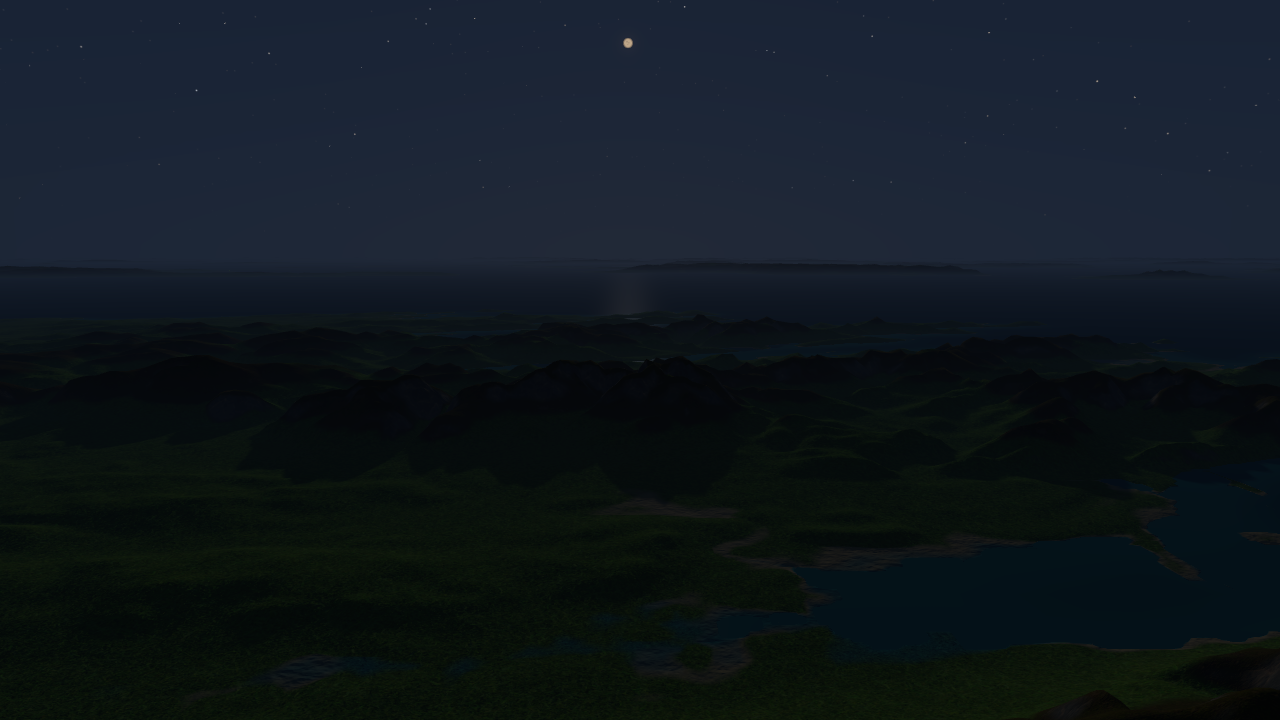
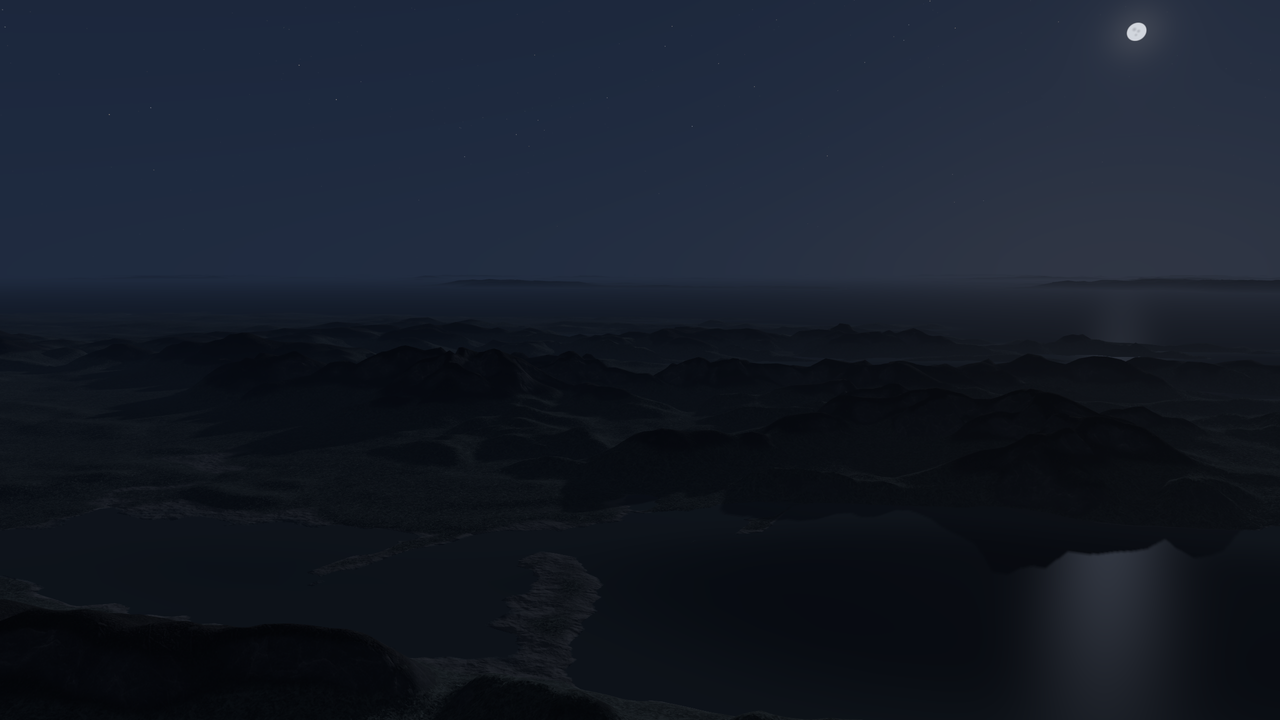
Tune golden hour and night colour: evening haze, warm light, cool shade, Purkinje shift

diff --git a/src/render/Atmosphere.cpp b/src/render/Atmosphere.cpp
@@ -15,6 +15,8 @@ constexpr float kScaleHeightRayleigh = 7994.0f;
 constexpr float kScaleHeightMie = 1200.0f;
 const glm::vec3 kBetaRayleigh(5.8e-6f, 13.5e-6f, 33.1e-6f);
 constexpr float kBetaMie = 3e-6f;
+// Evening aerosol: denser, and scattering short wavelengths more (Angstrom exponent ~1.3).
+const glm::vec3 kBetaMieHazy = 2e-5f * glm::vec3(0.76f, 1.0f, 1.34f);
 const glm::vec3 kBetaOzone(0.650e-6f, 1.881e-6f, 0.085e-6f);
 constexpr float kOzoneCentre = 25e3f;    // ozone layer, a tent profile
 constexpr float kOzoneHalfWidth = 15e3f;
@@ -22,10 +24,14 @@ constexpr int kSamples = 32;
 
 // Moonlight overhead in full darkness. Far brighter than real moonlight, as if the eye had
 // adapted, so the landscape stays readable; the sky model uses the same ratio to sunlight.
-const glm::vec3 kMoonLight(0.090f, 0.120f, 0.200f);
+const glm::vec3 kMoonLight(0.135f, 0.180f, 0.300f);
 constexpr float kMoonSky = 0.004f;
 // Airglow and starlight: keeps the night sky (and so the ambient light) a dark blue.
-const glm::vec3 kNightSky(0.0025f, 0.0045f, 0.0110f);
+const glm::vec3 kNightSky(0.00375f, 0.00675f, 0.0165f);
+constexpr float kGoldenSaturation = 0.7f; // extra saturation of a low sun's light
+constexpr float kGoldenBoost = 0.4f;      // extra strength of a low sun's light
+// Shade at golden hour is lit by the blue sky overhead rather than the warm horizon.
+const glm::vec3 kGoldenShade(0.80f, 0.93f, 1.25f);
 constexpr float kSunsetY = -0.02f; // sun about 1 degree down: the moon takes over as the light
 
 } // namespace
@@ -41,8 +47,9 @@ glm::vec3 sunDirection(float bearingDegrees, float elevationDegrees)
                                     -horizontal * std::cos(bearing)));
 }
 
-glm::vec3 sunTransmittance(const glm::vec3& sunDir)
+glm::vec3 sunTransmittance(const glm::vec3& sunDir, float haze)
 {
+    const glm::vec3 betaMie = glm::mix(glm::vec3(kBetaMie), kBetaMieHazy, haze);
     const glm::vec3 origin(0.0f, kEarthRadius + kObserverHeight, 0.0f);
     const glm::vec3 dir = glm::normalize(sunDir);
     // The sea horizon hides the sun as its disc (~0.5 degrees) sets.
@@ -65,8 +72,12 @@ glm::vec3 sunTransmittance(const glm::vec3& sunDir)
         depthM += std::exp(-h / kScaleHeightMie) * step;
         depthO += std::max(1.0f - std::abs(h - kOzoneCentre) / kOzoneHalfWidth, 0.0f) * step;
     }
-    return visible * glm::exp(-(kBetaRayleigh * depthR + kBetaOzone * depthO +
-                                glm::vec3(kBetaMie * 1.1f * depthM)));
+    return visible * glm::exp(-(kBetaRayleigh * depthR + kBetaOzone * depthO + betaMie * 1.1f * depthM));
+}
+
+float Atmosphere::haze() const
+{
+    return glm::smoothstep(0.5f, 0.208f, sunDir.y);
 }
 
 float Atmosphere::night() const
@@ -82,16 +93,22 @@ glm::vec3 Atmosphere::lightDir() const
 glm::vec3 Atmosphere::lightColour() const
 {
     if (sunDir.y > kSunsetY) {
-        return sunStrength * sunTransmittance(sunDir);
+        // Golden hour: the low sun's colour is saturated and lifted beyond the transmittance,
+        // so lit slopes glow orange against the blue shade, as a photograph exposes for them.
+        const glm::vec3 sun = sunTransmittance(sunDir, haze());
+        const float luminance = glm::dot(sun, glm::vec3(0.2126f, 0.7152f, 0.0722f));
+        const glm::vec3 golden = glm::max(glm::vec3(luminance) + (sun - luminance) * (1.0f + kGoldenSaturation * haze()),
+                                          glm::vec3(0.0f));
+        return sunStrength * (1.0f + kGoldenBoost * haze()) * golden;
     }
     // A low moon is dimmed and warmed by the air like the sun; kMoonLight is its overhead value.
-    const glm::vec3 overhead = sunTransmittance(glm::vec3(0.0f, 1.0f, 0.0f));
-    return night() * kMoonLight * sunTransmittance(moonDir()) / overhead;
+    const glm::vec3 overhead = sunTransmittance(glm::vec3(0.0f, 1.0f, 0.0f), haze());
+    return night() * kMoonLight * sunTransmittance(moonDir(), haze()) / overhead;
 }
 
 float Atmosphere::ambientScale() const
 {
-    return glm::mix(1.0f, 0.5f, glm::smoothstep(0.0f, 0.17f, sunDir.y));
+    return glm::mix(1.0f, 0.5f, glm::smoothstep(-0.02f, 0.05f, sunDir.y));
 }
 
 float Atmosphere::moonSkyIntensity() const
@@ -108,7 +125,8 @@ void Atmosphere::apply(Shader& shader, float cameraHeight) const
 {
     shader.set("uLightDir", lightDir());
     shader.set("uLightColour", lightColour());
-    shader.set("uAmbientScale", ambientScale());
+    shader.set("uAmbientTint", ambientScale() * glm::mix(glm::vec3(1.0f), kGoldenShade, haze() * (1.0f - night())));
+    shader.set("uNight", night());
     const float t = glm::smoothstep(highAltitudeStart, highAltitudeEnd, cameraHeight);
     shader.set("uFogDensity", fogDensity * glm::mix(1.0f, highAltitudeFogScale, t));
     shader.set("uFogFalloff", 1.0f / fogScaleHeight);

diff --git a/src/render/Sky.cpp b/src/render/Sky.cpp
@@ -32,7 +32,7 @@ const std::array<Face, 6> kFaces = {{
 // Matches kSunIntensity in sky.frag.
 constexpr float kSunDiscIntensity = 20.0f;
 // The moon's disc: bright enough to read as the light source, not to its true contrast.
-constexpr float kMoonDiscIntensity = 0.5f;
+constexpr float kMoonDiscIntensity = 0.6f;
 
 // Below the horizon the cubemap repeats the horizon colour; as light from the ground it is scaled
 // down to stand in for terrain bounce.
@@ -186,6 +186,7 @@ void Sky::renderFace(std::size_t face)
     m_skyShader.set("uMoonDir", m_rendering.moonDir());
     m_skyShader.set("uMoonIntensity", m_rendering.moonSkyIntensity());
     m_skyShader.set("uNightSky", m_rendering.nightSky());
+    m_skyShader.set("uHaze", m_rendering.haze());
     m_skyShader.set("uExposure", m_rendering.exposure);
     m_skyShader.set("uEncodeSrgb", 0);
     const glm::mat4 projection = glm::perspective(glm::radians(90.0f), 1.0f, 0.1f, 10.0f);
@@ -308,10 +309,13 @@ void Sky::drawBackground(const glm::mat4& invViewProjRotation, const Atmosphere&
     m_skyboxShader.set("uInvViewProjRotation", invViewProjRotation);
     m_skyboxShader.set("uSunDir", atmosphere.sunDir);
     m_skyboxShader.set("uSunDiscColour", kSunDiscIntensity * atmosphere.exposure *
-                                             sunTransmittance(atmosphere.sunDir));
+                                             sunTransmittance(atmosphere.sunDir, atmosphere.haze()));
     m_skyboxShader.set("uMoonDir", atmosphere.moonDir());
-    m_skyboxShader.set("uMoonDiscColour", kMoonDiscIntensity * atmosphere.exposure *
-                                              sunTransmittance(atmosphere.moonDir()));
+    // Silver-white: the air dims a low moon but its colour is kept close to neutral.
+    const glm::vec3 moonAir = sunTransmittance(atmosphere.moonDir(), atmosphere.haze());
+    const float moonDim = 0.6f + 0.4f * glm::dot(moonAir, glm::vec3(0.2126f, 0.7152f, 0.0722f));
+    m_skyboxShader.set("uMoonDiscColour", kMoonDiscIntensity * atmosphere.exposure * moonDim *
+                                              glm::vec3(0.93f, 0.96f, 1.0f));
     // Stars come out after the sun is 4 degrees down, fully by the end of nautical twilight.
     m_skyboxShader.set("uStarBrightness", glm::smoothstep(-0.07f, -0.2f, atmosphere.sunDir.y));
     m_skyboxShader.set("uStarRotation", atmosphere.starRotation);

diff --git a/src/render/Atmosphere.hpp b/src/render/Atmosphere.hpp
@@ -11,8 +11,9 @@ class Shader;
 glm::vec3 sunDirection(float bearingDegrees, float elevationDegrees);
 
 // Fraction of sunlight reaching sea level along sunDir, from the same Rayleigh + Mie model as
-// sky.frag. Gives the low sun its warm colour, and fades to zero as the sun sets.
-glm::vec3 sunTransmittance(const glm::vec3& sunDir);
+// sky.frag, with haze from Atmosphere::haze(). Gives the low sun its warm colour, and fades to
+// zero as the sun sets.
+glm::vec3 sunTransmittance(const glm::vec3& sunDir, float haze);
 
 // Sun, moon and sky parameters shared by every pass, so the visible sun matches the lighting.
 // Ambient light and fog colour come from the sky cubemap (see Sky).
@@ -26,11 +27,14 @@ struct Atmosphere {
     glm::vec3 moonDir() const { return -sunDir; }
     // 0 by day, 1 from the end of civil twilight (sun 7 degrees down).
     float night() const;
+    // Evening haze, 0 with the sun above 30 degrees and 1 below 12: denser, reddening aerosol for
+    // a warm low sun and horizon glow, while noon keeps its clear air.
+    float haze() const;
     // The light that shades and casts shadows: the sun, or the moon once the sun has set.
     glm::vec3 lightDir() const;
     glm::vec3 lightColour() const;
-    // Scale on the sky's diffuse light: half while the sun is well up, so sunlit ground stands
-    // out from shade, rising to full as it sets (as the eye adapts to the sky).
+    // Scale on the sky's diffuse light: half while the sun is up, so sunlit ground stands out from
+    // shade even at golden hour, rising to full as it sets (as the eye adapts to the sky).
     float ambientScale() const;
     // Moonlight relative to sunlight in the sky model, and the airglow floor (before exposure).
     float moonSkyIntensity() const;
@@ -44,7 +48,8 @@ struct Atmosphere {
     float highAltitudeStart = 5000.0f;
     float highAltitudeEnd = 100000.0f;
 
-    // Sets uLightDir, uLightColour, uAmbientScale, uFogDensity and uFogFalloff.
+    // Sets uLightDir, uLightColour, uAmbientTint (scale, cooled at golden hour), uNight,
+    // uFogDensity and uFogFalloff.
     void apply(Shader& shader, float cameraHeight = 0.0f) const;
 };
 

diff --git a/src/render/ViewPresets.cpp b/src/render/ViewPresets.cpp
@@ -23,9 +23,10 @@ const std::array<ViewPreset, 7> kPresets = {{
     // The same archipelago closer in, looking north-north-east along ridges and valleys: an evening
     // sun from the west-north-west throws long shadows across the valley floors.
     {"ridges", glm::vec3(-1012e3f, 300.0f, -258e3f), -0.3f, 0.3f, 22e3f},
-    // Kerry from the north, looking south over the Reeks to the Kenmare River and the Atlantic,
-    // where the full moon stands at midsummer midnight.
-    {"kerry-south", glm::vec3(-116e3f, 600.0f, 170e3f), 3.14159f, 0.12f, 45e3f},
+    // Kerry from the north, looking south-south-east over the Reeks to the Kenmare River. At
+    // midsummer midnight the full moon stands due south, 30 degrees right of the view, so slopes
+    // and the bay catch it from the side.
+    {"kerry-south", glm::vec3(-116e3f, 600.0f, 170e3f), 3.66f, 0.10f, 45e3f},
 }};
 
 } // namespace

diff --git a/README.md b/README.md
@@ -6,7 +6,7 @@ A real-time terrain renderer of Ireland, written in C++17 and modern shader-base
 
 > **Work in progress.** This is a ground-up rebuild of my Year 4 Computer Graphics final project at Trinity College Dublin, *Toward a Futuristic Emerald Isle*. The original used legacy fixed-function OpenGL; this version is built on a programmable pipeline, runs on macOS, Windows and Linux, and implements the features the original only approximated.
 
-![MacGillycuddy's Reeks, Kerry, from the east, with blended materials, sky lighting and height fog: the renderer at milestone 5](docs/images/hero.png)
+![Golden hour over the procedural archipelago: low sun on the ridges, long shadows across the valleys and cool blue shade (--view ridges --time 21:00)](docs/images/milestone-06.png)
 
 ## Roadmap
 
@@ -23,11 +23,9 @@ A real-time terrain renderer of Ireland, written in C++17 and modern shader-base
 
 ## Screenshots
 
-The milestone 6 images are reproducible with `--view <name> --screenshot <file>` plus the options shown. Earlier images show the renderer as it was at that milestone; lighting has changed since, so they no longer reproduce exactly.
+The image at the top is milestone 6 at golden hour. Milestone 6 images are reproducible with `--view <name> --screenshot <file>` plus the options shown (rendered at 2560 × 1440 and downscaled). Earlier images show the renderer as it was at that milestone; lighting has changed since, so they no longer reproduce exactly.
 
-![Milestone 6, shadows and day/night: golden hour over the procedural archipelago, with long shadows across the valleys (--view ridges --time 20:30)](docs/images/milestone-06.png)
-
-![Milestone 6, shadows and day/night: midsummer night over Kerry, with the full moon low in the south and stars (--view kerry-south --time 01:30)](docs/images/milestone-06-night.png)
+![Milestone 6, shadows and day/night: midsummer night over Kerry, with the full moon low in the south, stars and blue-grey moonlit land (--view kerry-south --time 01:30)](docs/images/milestone-06-night.png)
 
 ![Milestone 5, infinite world: procedural archipelago about 1,000 km west of Ireland, streamed around the camera](docs/images/milestone-05.png)
 
@@ -54,7 +52,7 @@ flowchart LR
 
 ## How light and shadow work
 
-- **Sun and moon:** the sun's position comes from the NOAA solar equations for a local clock time and date at 53.4° N, 8° W, with Irish summer time and refraction, so sunrise directions, sunset times and the noon height are right (60° at midsummer, 13° at midwinter). Its colour and strength come from the same Rayleigh, Mie and ozone model as the sky, so a low sun is warm and dim. The moon is always full, opposite the sun, and takes over as the light once the sun has set; stars turn about the celestial pole and fade in with the dark, and the sky keeps a dark blue floor of airglow, so night is never black.
+- **Sun and moon:** the sun's position comes from the NOAA solar equations for a local clock time and date at 53.4° N, 8° W, with Irish summer time and refraction, so sunrise directions, sunset times and the noon height are right (60° at midsummer, 13° at midwinter). Its colour and strength come from the same Rayleigh, Mie and ozone model as the sky, so a low sun is warm and dim. As the sun drops below 30°, the air takes on an evening haze (denser, reddening aerosol) that gives a warm glow towards the sun, and the low sun's light is saturated and lifted while the sky light in shade is cooled, so golden hour has warm slopes against blue shade; noon is unaffected. The moon is always full, opposite the sun, and takes over as the light once the sun has set; stars turn about the celestial pole and fade in with the dark, and the sky keeps a dark blue floor of airglow, so night is never black. At night, colours fade and shift towards blue as the eye's rods take over (the Purkinje effect), so moonlit land reads blue-grey.
 - **Sky:** the sky is rendered into a cubemap, which also gives the ambient light (spherical harmonics) and the fog colour. While the sun moves, a second cubemap is rendered one face per frame and its small mip is read back asynchronously for the ambient light, then both are swapped in together, so the sky never causes a frame spike.
 - **Cascaded shadow maps:** four 2048² cascades cover the view from about half the camera's height above the ground out to ten times that height (30–150 km). Each cascade is fitted to the bounding sphere of its slice of the view and snapped to whole texels in world space, so shadows do not shimmer as the camera moves or turns. The depth pass reuses the CDLOD node selection, culled to each cascade and coarser in the outer ones, and clamps casters between a cascade and the sun onto its near plane. Receivers use a 3 × 3 hardware-filtered PCF, a normal offset that grows as the light grazes the surface, and a slope-scaled depth bias, and neighbouring cascades are cross-faded. Shadows dim only direct light, so the sky still lights the shade; they fall on the sea too.
 - **Distant shadows:** beyond the last cascade, each terrain tile (4 km nodes and coarser) carries a horizon map, made on the worker thread when the tile is generated: for every other grid point, the elevation of the horizon in eight compass directions, found by marching outwards over the tile and over a coarser grid of heights reaching two node widths beyond it. The shader interpolates the horizon angle at the light's bearing and compares it with the light's elevation, and the last cascade fades into it. This costs two texture fetches per pixel, about 2 ms more work per coarse tile on the worker and nothing measurable on the GPU; ray-marching the height texture towards the sun would need a dozen or more fetches per pixel every frame and could not see casters past the edge of the node's own tile. The sea gets cascade shadows only; beyond them the haze dominates.
